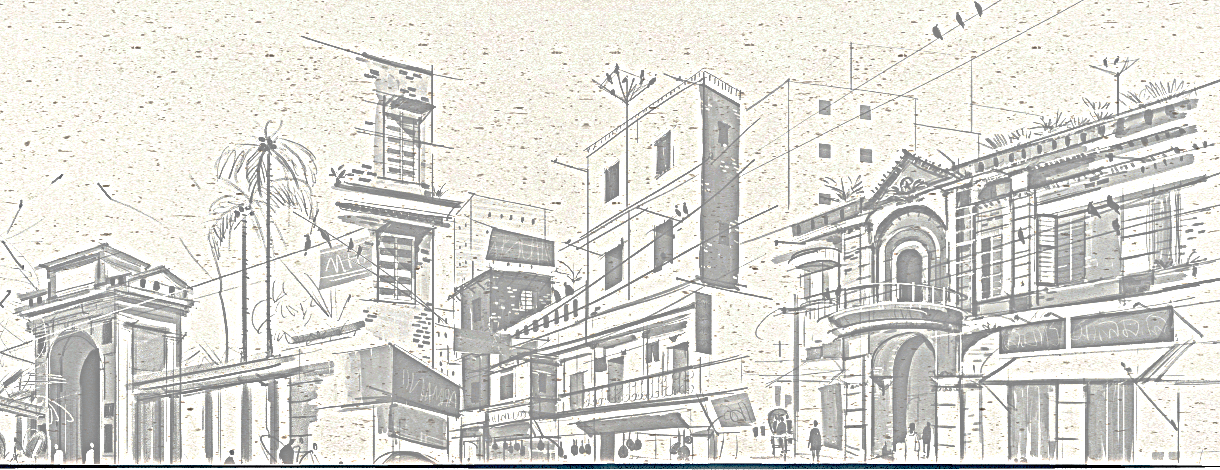
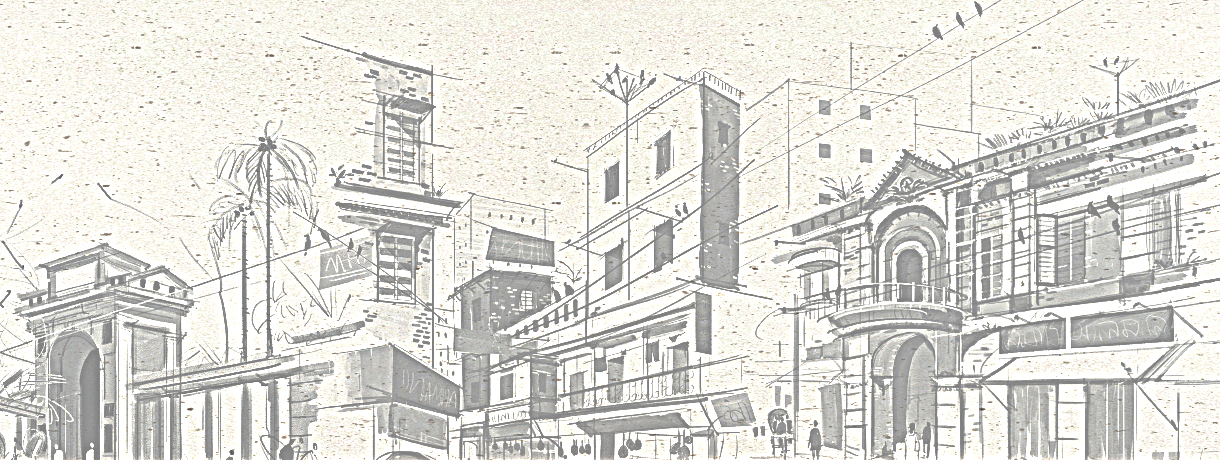
style updated

diff --git a/resources/views/landingpage.blade.php b/resources/views/landingpage.blade.php
@@ -78,7 +78,7 @@ Description: Modern municipal portal with hero section, glassmorphic design, and
         }
 
         .hero-overlay {
-            background: linear-gradient(rgba(255, 255, 255, 0.7), rgba(255, 255, 255, 0.4));
+            background: linear-gradient(rgba(255, 255, 255, 0.9), rgba(255, 255, 255, 0.9));
         }
 
         .login-card {
